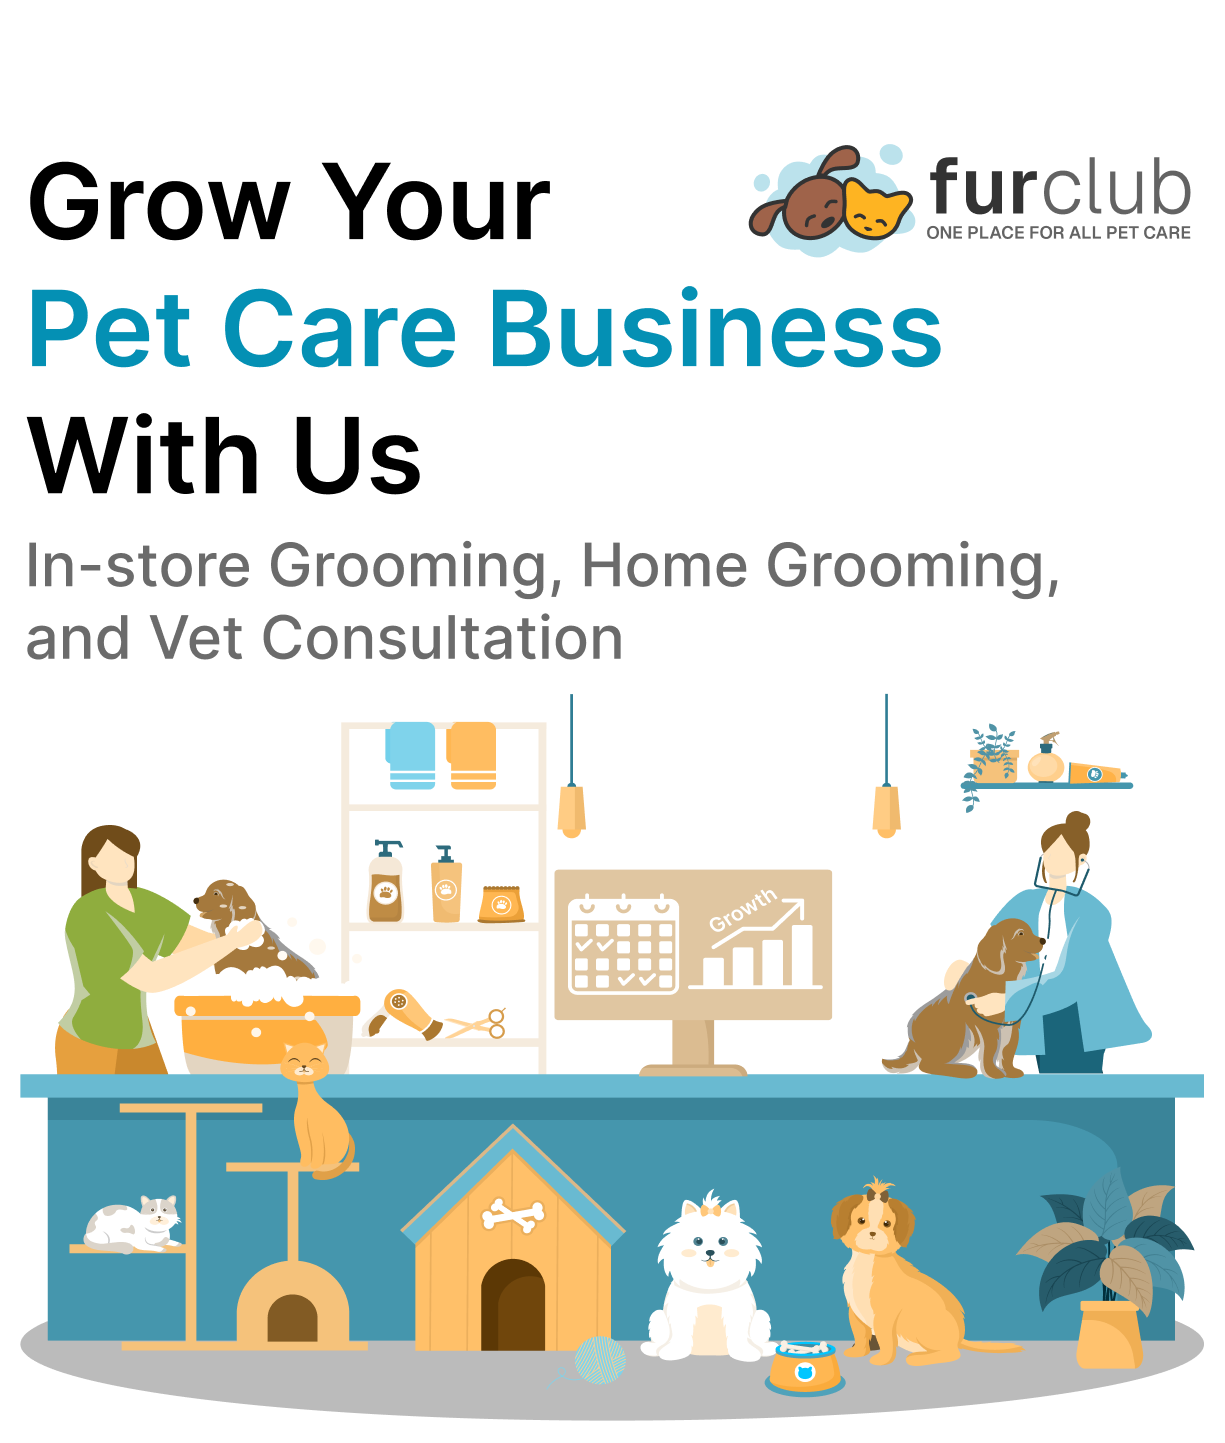
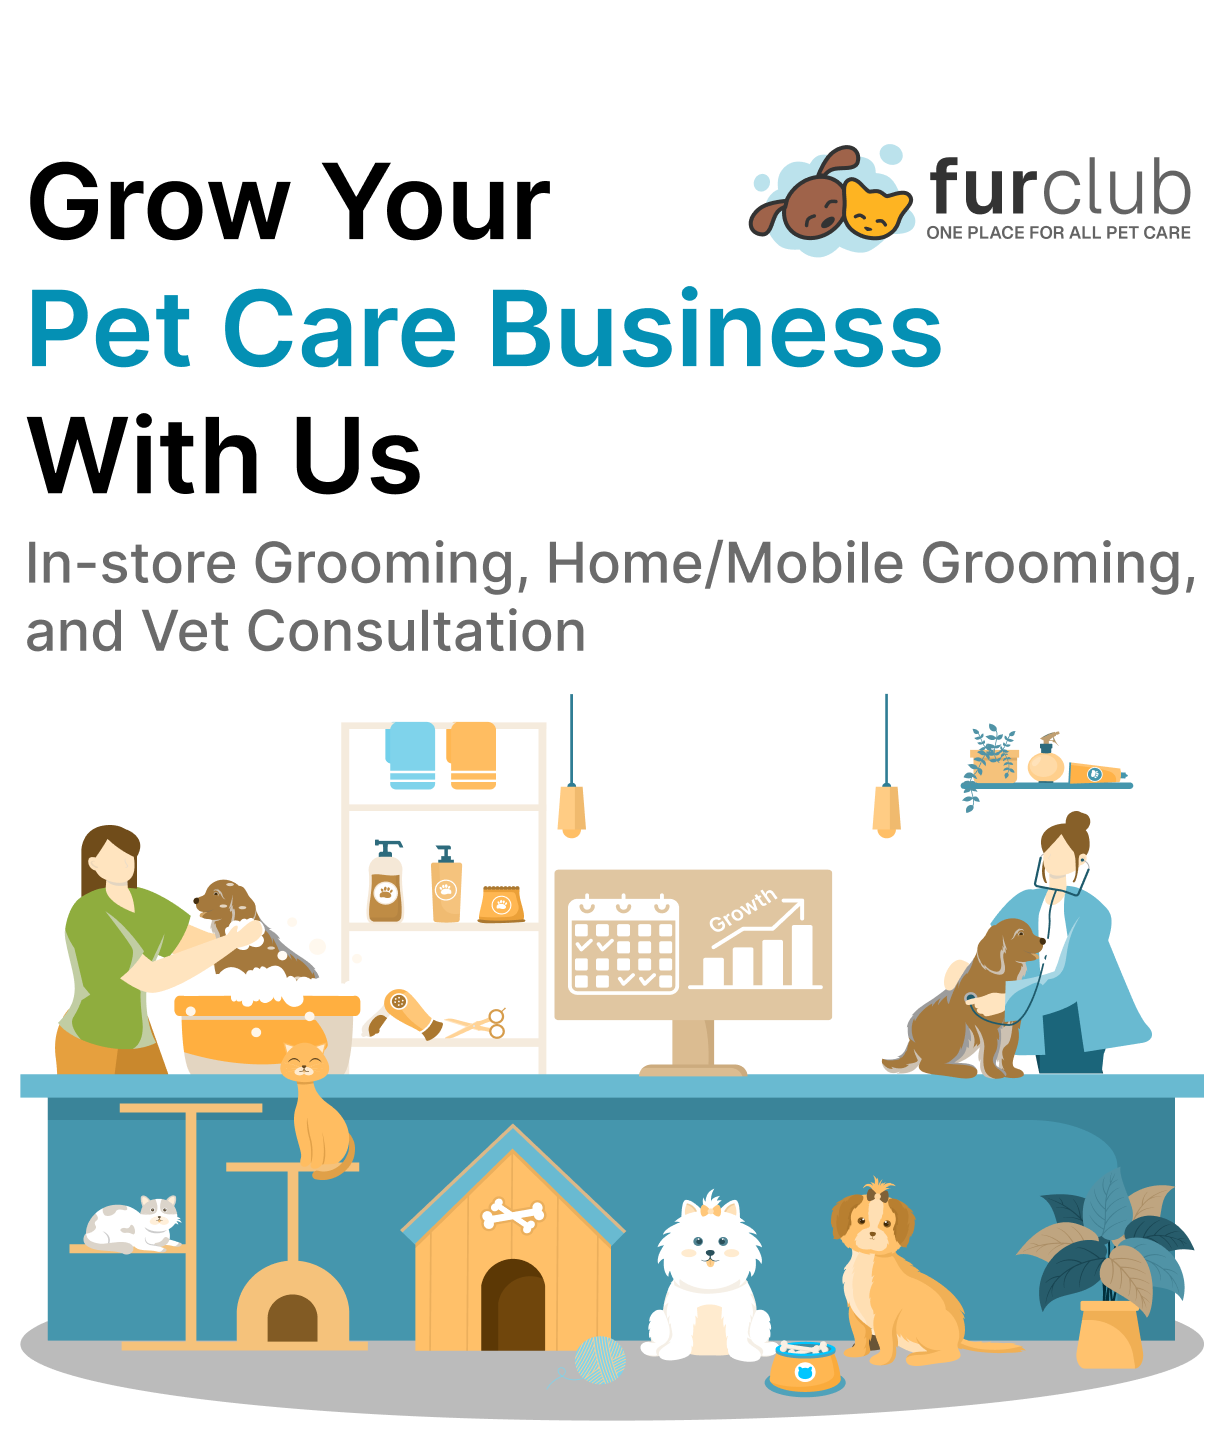
Recactored some code

Changed region(s): [[0.0, 0.3742, 0.9616, 0.4678]]

diff --git a/app-customer/nextjs/src/app/partner-with-us/_components/what-you-get.tsx b/app-customer/nextjs/src/app/partner-with-us/_components/what-you-get.tsx
@@ -7,8 +7,8 @@ import Image from "next/image";
 const IMAGES = {
   1: "/partner-page/listing-on-furclub.png",
   2: "/partner-page/professional-center-page.png",
-  3: "/partner-page/center-dashboard.png",
-  4: "/partner-page/24-7-booking.png",
+  3: "/partner-page/24-7-booking.png",
+  4: "/partner-page/center-dashboard.png",
   // 5: "/partner-page/increased-exposure.png",
   // 4: "/partner-page/business-growth-insights.png",
 } as Record<number, string>;
@@ -52,7 +52,6 @@ export default function WhatYouGet() {
                 <span className="font-semibold">grow your business</span>.
               </span>
             }
-            // subInfo="Get discovered by new pet parents looking for pet care services on Furclub. Reach new customers and grow your business."
           />
           <InfoTab
             tabIdx={2}
@@ -62,24 +61,9 @@ export default function WhatYouGet() {
             title="Professional Center Page"
             subInfo="Showcase your pet care services online with a polished experience on web and mobile."
           />
+
           <InfoTab
             tabIdx={3}
-            selectedTabIdx={selectedTabIdx}
-            setSelectedTabIdx={setSelectedTabIdx}
-            setIsHovered={setIsHovered}
-            title="Center Web/Mobile Dashboard"
-            // subInfo="Manage all your bookings anytime, anywhere - from your laptop or mobile."
-            subInfo={
-              <span>
-                <span className="font-semibold">Manage all your bookings</span>{" "}
-                anytime, anywhere - from your{" "}
-                <span className="font-semibold">laptop</span> or{" "}
-                <span className="font-semibold">mobile</span>.
-              </span>
-            }
-          />
-          <InfoTab
-            tabIdx={4}
             selectedTabIdx={selectedTabIdx}
             setSelectedTabIdx={setSelectedTabIdx}
             setIsHovered={setIsHovered}
@@ -93,6 +77,22 @@ export default function WhatYouGet() {
                 ensuring you
                 <span className="font-semibold"> never lose a customer</span>.
                 Say goodbye to endless phone calls and WhatsApp messages.
+              </span>
+            }
+          />
+          <InfoTab
+            tabIdx={4}
+            selectedTabIdx={selectedTabIdx}
+            setSelectedTabIdx={setSelectedTabIdx}
+            setIsHovered={setIsHovered}
+            title="Center Web/Mobile Dashboard"
+            // subInfo="Manage all your bookings anytime, anywhere - from your laptop or mobile."
+            subInfo={
+              <span>
+                <span className="font-semibold">Manage all your bookings</span>{" "}
+                anytime, anywhere - from your{" "}
+                <span className="font-semibold">laptop</span> or{" "}
+                <span className="font-semibold">mobile</span>.
               </span>
             }
           />
@@ -137,7 +137,7 @@ const InfoTab = ({
       className="flex cursor-pointer items-start gap-3"
     >
       <span
-        className={`flex size-10 shrink-0 items-center justify-center rounded-full border ${selectedTabIdx == tabIdx ? "border-primary bg-primary/10 text-primary" : ""}`}
+        className={`flex size-10 shrink-0 items-center justify-center rounded-full border border-foreground/15 ${selectedTabIdx == tabIdx ? "border-primary bg-primary/10 text-primary" : ""}`}
       >
         {tabIdx}
       </span>

diff --git a/app-customer/nextjs/src/app/partner-with-us/_components/hero-section.tsx b/app-customer/nextjs/src/app/partner-with-us/_components/hero-section.tsx
@@ -12,7 +12,7 @@ export default function HeroSection({
   centerAppBaseUrl: string;
 }) {
   return (
-    <div className="grid grid-cols-2 gap-44 sm:gap-0">
+    <div className="grid grid-cols-2">
       <div className="col-span-2 flex flex-col pb-8 pt-2 sm:col-span-1 md:gap-1 md:pt-16">
         <h1 className="flex animate-fade-in flex-col gap-1 text-3xl font-semibold md:gap-2 md:text-4xl lg:text-5xl">
           <span className="inline-block">Grow Your</span>
@@ -21,10 +21,11 @@ export default function HeroSection({
         </h1>
         {/* <h1 className="text-6xl font-bold">Grow Your Business With Us</h1> */}
         <h4 className="mt-2 text-lg text-foreground/80">
-          In-store Grooming, Home/Mobile Grooming, and Vet Consultation{" "}
+          For In-store Grooming, Home/Mobile Grooming, and Vet Consultation.
+          Reduce your no-shows, walk ins, and phone calls.
         </h4>
       </div>
-      <div className="relative col-span-2 grid grid-cols-2 rounded-2xl bg-foreground/10 px-5 py-6 md:p-6">
+      <div className="relative col-span-2 mt-44 grid grid-cols-2 rounded-2xl bg-foreground/10 px-5 py-6 sm:mt-0 md:p-6">
         <div className="col-span-2 flex flex-col gap-5 pb-4 pt-10 sm:col-span-1 sm:pb-8 sm:pt-8 md:gap-10">
           <span className="text-base md:text-lg">
             Your one-stop place to showcase all your{" "}
@@ -39,17 +40,17 @@ export default function HeroSection({
               <Label className="text-2sm md:text-sm">
                 Get Started for free - It only takes 10 minutes.
               </Label>
-              <div className="grid grid-cols-2 gap-3 md:grid-cols-3">
+              <div className="grid grid-cols-2 gap-3 lg:grid-cols-2 xl:w-[90%]">
                 <Link href="#demo-section">
                   <Button
-                    className="w-full text-xs md:text-sm"
+                    className="w-full text-xs md:text-2sm  xl:text-sm"
                     variant="outline"
                   >
                     Get Free Demo
                   </Button>
                 </Link>
                 <a href={`${centerAppBaseUrl}`}>
-                  <Button className="w-full text-xs md:text-sm">
+                  <Button className="w-full text-xs md:text-2sm  xl:text-sm">
                     Register your center
                   </Button>
                 </a>
@@ -58,8 +59,8 @@ export default function HeroSection({
           </div>
         </div>
 
-        <div className="absolute right-0 top-0 col-span-1 h-96 w-full animate-fade-in px-2 sm:w-1/2 md:inline md:px-0">
-          <div className="relative h-full w-full -translate-y-[68%] md:-translate-y-[60%]">
+        <div className="absolute right-0 top-0 col-span-1 aspect-square w-full animate-fade-in px-2 sm:w-1/2 md:inline md:px-0">
+          <div className="relative h-full w-full -translate-y-[70%] md:-translate-y-[60%]">
             <Image fill src={"/partner-page/hero-image.svg"} alt="hero image" />
           </div>
         </div>

diff --git a/app-customer/nextjs/src/app/partner-with-us/_components/get-started.tsx b/app-customer/nextjs/src/app/partner-with-us/_components/get-started.tsx
@@ -73,7 +73,7 @@ export default function GetStarted() {
         Get started in 3 easy steps!
       </h1>
 
-      <div className="mt-8 flex items-center justify-center gap-3 md:gap-10">
+      <div className="mt-10 flex items-center justify-center gap-3 md:gap-10">
         {[0, 1, 2].map((tabIdx) => (
           <Fragment key={tabIdx}>
             {tabIdx != 0 && (
@@ -116,12 +116,12 @@ const StepsSection = ({
       onClick={() => setSelectedTabIdx(tabIdx)}
       onPointerEnter={() => setIsHovered(true)}
       onPointerLeave={() => setIsHovered(false)}
-      className="flex cursor-pointer flex-col items-center gap-3"
+      className="flex cursor-pointer flex-col items-center gap-2"
     >
       <span
         className={`flex size-10 shrink-0 items-center justify-center rounded-full border border-foreground/30 transition-all duration-100 ${selectedTabIdx >= tabIdx ? "border-primary bg-primary/10 text-primary" : ""} ${selectedTabIdx == tabIdx ? "scale-125" : ""}`}
       >
-        {tabIdx}
+        {tabIdx + 1}
       </span>
     </div>
   );

diff --git a/app-customer/nextjs/src/app/partner-with-us/page.tsx b/app-customer/nextjs/src/app/partner-with-us/page.tsx
@@ -42,9 +42,9 @@ export default async function Page({
       />
       <HeroSection centerAppBaseUrl={env.CENTER_APP_BASE_URL} />
       <div className="w-screen -translate-x-3 bg-muted px-3 py-12 lg:-translate-x-24 lg:px-24 xl:-translate-x-48 xl:px-48">
-        <GetStarted />
+        <WhatYouGet />
       </div>
-      <WhatYouGet />
+      <GetStarted />
       <div
         id="demo-section"
         className="w-screen -translate-x-3 bg-muted px-3 py-20 lg:-translate-x-24 lg:px-24 xl:-translate-x-48 xl:px-48 "
